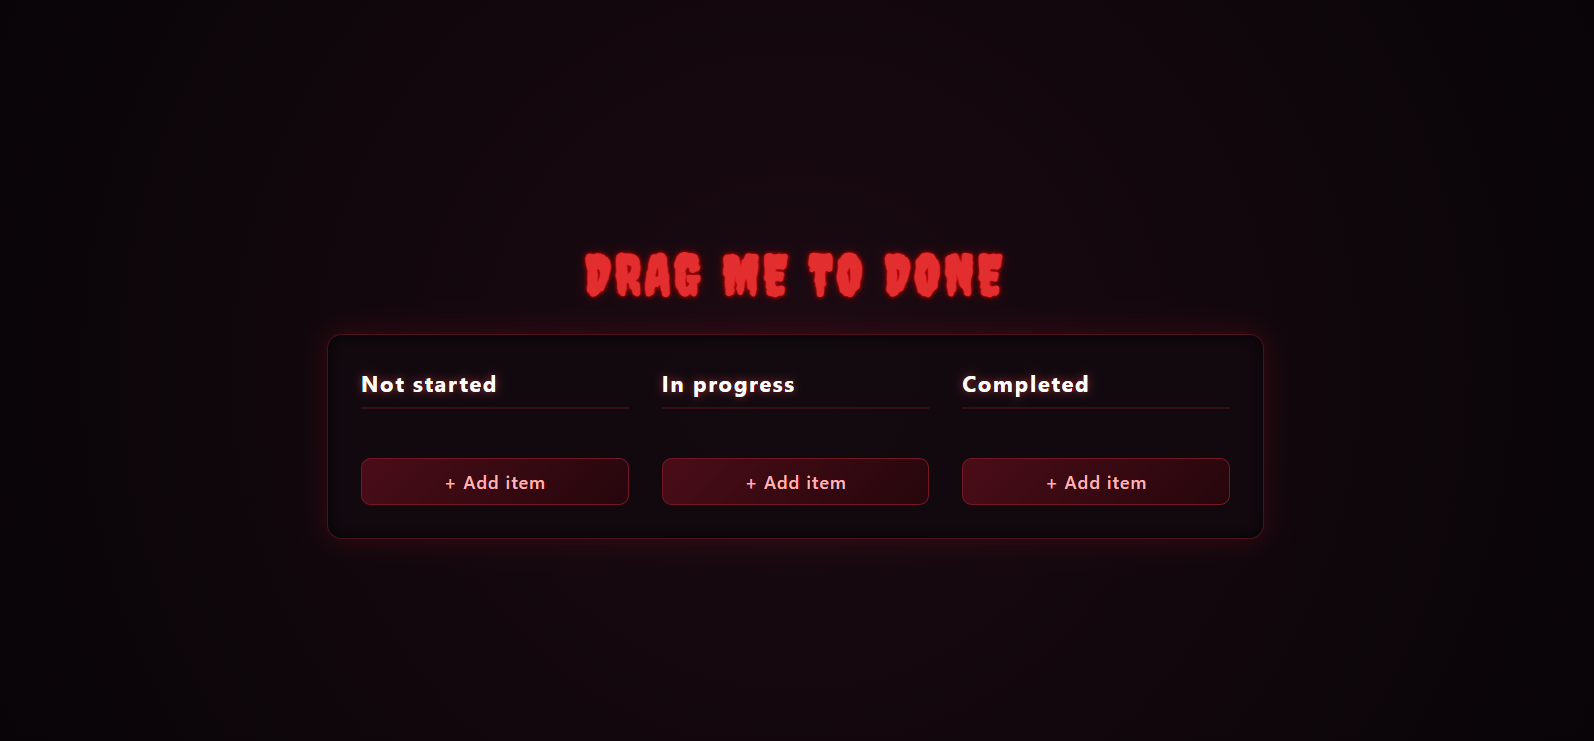
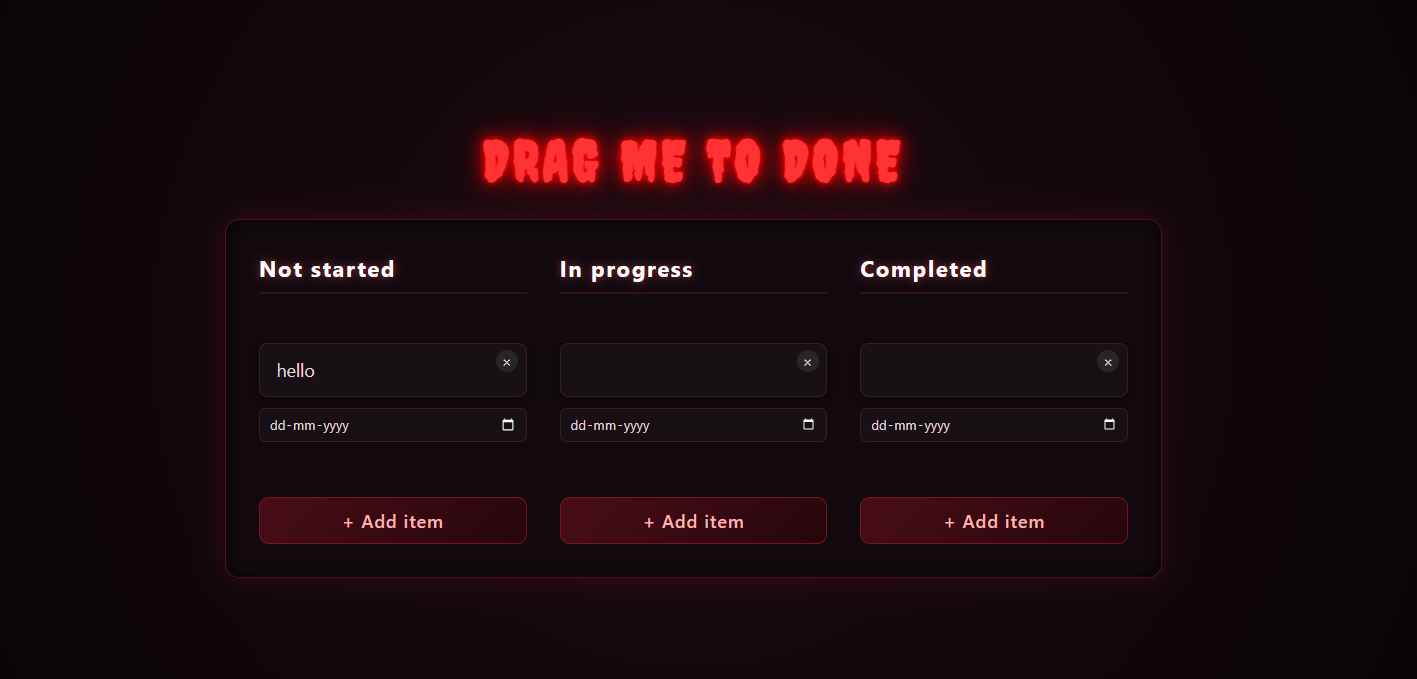
the version 1 of kanboard is live

diff --git a/items/item.js b/items/item.js
@@ -2,15 +2,18 @@ import Dropzone from '../items/dropzone.js';
 import KanbanStoreApi from '../kanbanapis/kanbanstoreapi.js';
 
 export default class Item {
-    constructor(id, content) {
+    constructor(id, content, dueDate) {
         const bottomDropzone = Dropzone.createDropzone();
         this.element = {};
         this.element.root = Item.createRoot();
         this.element.input = this.element.root.querySelector('.kanban__item-input');
-    
+        this.element.deleteBtn = this.element.root.querySelector('.kanban__item-delete');
+        this.element.dueDate = this.element.root.querySelector('.kanban__item-due');
         this.element.root.dataset.id = id;
         this.element.input.textContent = content;
-
+        if(dueDate) {
+            this.element.dueDate.value = dueDate;
+        }
         this.content = content;
         this.element.root.appendChild(bottomDropzone);
         const onBlur = () => {
@@ -25,17 +28,34 @@ export default class Item {
             console.log(this.content);
         };
         this.element.input.addEventListener('blur', onBlur);
-        this.element.root.addEventListener('contextmenu', e => {
-            e.preventDefault();
-            const check = confirm('Are you sure you want to delete this item?');
-            if (check) {
-                KanbanStoreApi.deleteItem(id);
-                this.element.input.removeEventListener('blur', onBlur);
-                this.element.root.parentElement.removeChild(this.element.root);
-                
-                location.reload();
-            }
-        });
+        this.element.dueDate.addEventListener('change', () => {
+    KanbanStoreApi.updateItem(id, { dueDate: this.element.dueDate.value });
+});
+        let confirmTimeout = null;
+        this.element.deleteBtn.addEventListener('click', e => {
+        e.stopPropagation();
+
+    if (!this.element.deleteBtn.classList.contains('kanban__item-delete--confirming')) {
+        this.element.deleteBtn.classList.add('kanban__item-delete--confirming');
+        this.element.deleteBtn.textContent = '✓';
+        this.element.deleteBtn.setAttribute('title', 'Click again to confirm delete');
+
+        confirmTimeout = setTimeout(() => {
+            this.element.deleteBtn.classList.remove('kanban__item-delete--confirming');
+            this.element.deleteBtn.textContent = '×';
+            this.element.deleteBtn.setAttribute('title', 'Delete item');
+        }, 3000);
+        
+        return;
+    }
+    
+    clearTimeout(confirmTimeout);
+    KanbanStoreApi.deleteItem(id);
+    this.element.input.removeEventListener('blur', onBlur);
+    this.element.root.parentElement.removeChild(this.element.root);
+
+    location.reload();
+});
 
         this.element.root.addEventListener('dragstart', e => {
             e.dataTransfer.setData('text/plain', id);
@@ -49,7 +69,9 @@ export default class Item {
         range.selectNode(document.body);
         return range.createContextualFragment(`
             <div class="kanban__item" draggable="true">
-                <div class="kanban__item-input" contenteditable></div>
+            <button class="kanban__item-delete" type="button" title="Delete item">×</button>
+            <div class="kanban__item-input" contenteditable></div>
+            <input class="kanban__item-due" type="date" title="Due date">
             </div>
         `).children[0];
     }

diff --git a/style.css b/style.css
@@ -72,8 +72,56 @@ h1 {
     color: #ffffff;
     padding-bottom: 8px;
 }
+.kanban__item {
+    position: relative;
+}
+.kanban__item-delete{
+    position: absolute;
+    top: 6px;
+    right: 8px;
+    width: 20px;
+    height: 20px;
+    line-height: 18px;
+    padding: 0;
+    border: none;
+    border-radius: 50%;
+    background: rgba(255, 255, 255, 0.08);
+    color: #e6d9df;
+    font-size: 14px;
+    cursor: pointer;
+    z-index: 2;
+    transition: all 0.15s ease-in-out;
+}
+.kanban__item-delete:hover{
+    background: rgba(255, 51, 68, 0.25);
+    color: #ffffff;
+}
+.kanban__item-delete--confirming {
+    background: #ff3344;
+    color: #ffffff;
+    font-weight: bold;
+    box-shadow: 0 0 8px rgba(255, 51, 68, 0.6);
+}
+.kanban__item-due {
+    display: block;
+    width: 100%;
+    margin-top: 6px;
+    padding: 6px 8px;
+    border-radius: 6px;
+    background-color: #171115;
+    border: 1px solid #3d1c24;
+    color: #e6d9df;
+    font-size: 12px;
+    box-sizing: border-box;
+    color-scheme: dark;
+}
+.kanban__item-due:focus {
+    outline: none;
+    border-color: #ff3344;
+    box-shadow: 0 0 8px rgba(254, 51, 68, 0.4);
+}
 .kanban__item-input {
-    padding: 13px 15px;
+    padding: 13px 28px 13px 15px;
     border-radius: 8px;
     background-color: #171115;
     color: #e6d9df;
@@ -119,4 +167,90 @@ h1 {
     background: linear-gradient(135deg, #6e1324 0%, #3b0913 100%);
     color: #ffffff;
     box-shadow: 0 0 12px rgba(255, 51, 68, 0.4);
+}
+@media (max-width: 1024px) {
+   .kanban {
+    width: 90%;
+    max-width: 788px;
+    padding: 24px;
+   }    
+}
+@media (max-width: 768px) {
+    body {
+        padding: 16px;
+        box-sizing: border-box;
+    }
+    h1{
+        font-size: 2.2rem;
+        margin-top: 1rem;
+        margin-bottom: 1rem;
+    }
+    .kanban{
+        width: 100%;
+        padding: 20px;
+    }
+    .kanban__column:not(:last-child){
+        margin-right: 16px;
+    }
+}
+@media (max-width: 600px) {
+    .kanban {
+        flex-direction: column;
+        gap: 20px;
+        padding: 16px;
+    }
+    .kanban__column{
+        width: 100%;
+    }
+    .kanban__column:not(:last-child){
+        margin-right: 0;
+        margin-bottom: 4px;
+    }
+}
+@media (max-width: 480px) {
+    h1 {
+        font-size: 1.8rem;
+        letter-spacing: 2px;
+        margin-top: 0.75rem;
+    }
+    .kanban {
+        padding: 14px;
+        border-radius: 10px;
+        gap: 16px;
+    }
+    .kanban__column-title{
+        font-size: 1.5rem;
+        text-align: center;
+    }
+    .kanban__item-input{
+        padding: 10px 12px;
+        font-size: 14px;
+    }
+    .kanban__add-item{
+        font-size: 14px;
+        padding: 8px 0;
+    }
+}
+@media (max-width:390px) {
+    h1 {
+        font-size: 1.5rem;
+        letter-spacing: 1.5px;
+        margin-top: 0.5rem;
+    }
+    .kanban {
+        padding: 10px;
+        border-radius: 9px;
+        gap: 12px;
+    }
+    .kanban__column-title{
+        font-size: 1rem;
+    }
+    .kanban__item-input{
+        padding: 8px 10px;
+        font-size: 13px;
+    }
+    .kanban__add-item{
+        font-size: 13px;
+        padding: 7px 0;
+    }
 }

diff --git a/kanbanapis/kanbanstoreapi.js b/kanbanapis/kanbanstoreapi.js
@@ -37,7 +37,7 @@ static insertItem(columnId, content){
             throw new Error('Item not found');
         }
         item.content = newProps.content === undefined ? item.content : newProps.content;
-        
+        item.dueDate = newProps.dueDate == undefined ? item.dueDate : newProps.dueDate;
         if(
             newProps.columnId !== undefined 
             && newProps.position !== undefined

diff --git a/items/column.js b/items/column.js
@@ -35,7 +35,8 @@ export default class Column {
     }
 
     renderItem(data) {
-        const item = new Item(data.id, data.content);        this.element.items.appendChild(item.element.root);
+        const item = new Item(data.id, data.content, data.dueDate)
+        this.element.items.appendChild(item.element.root);
         this.element.items.appendChild(Dropzone.createDropzone());
     }
 }

diff --git a/README.md b/README.md
@@ -1,18 +1,56 @@
-Welcome to my **Dangerous Kanban Board**
+# Drag Me to Done - Dangerous Kanban Board
 
 ![alt text](./assets/nmm.png)
 
-IN this Kanban Board i filled with **horror themes and colors** to make it more attractful
+**A Horror Themed and Adwanced Kanban Board Built Using JS,HTML and CSS without using any Framework that will work on your browser**
 
 ![alt text](./assets/fll.png)
 
-IN this website if you click on on Add item button It will  create a new area and you can type there
+# Features:
+ 1. **Drag and Drop baased UI interface**
 
-![alt text](./assets/lic.png)
+  ![alt text](./assets/like.png)
 
-And also you can move this into any three boxes while dragging it 
+ 2. **Inline editable interface so you can edit while clicking it**
 
-![alt text](./assets/like.png)
+ ![alt text](./assets/editable.png)
 
-If you right Click it and enter ok you can also delete that
+ 3. **Delete confirmation also is in it if you press delete icon it ask again for confirmation**
 
+ ![alt text](./assets/confirm.png)
+
+ 4. **Due date also in it because to find when it wrote**
+
+ ![alt text](./assets/duedate.png)
+
+ 5. **Local storage also available so when you close browser or refreshes the browser it wil not gone**
+
+ 6. **Fully Respnsive Design so it works on laptops,desktops,tablets and phones etc**
+
+ 7. **Fully Themed UI - In this website this is horror based UI with dark and flickering Horrors**
+
+
+# Project Structure
+
+├── index.html
+├── style.css
+├── script.js
+├── kanbanapis/
+│ ├── kanban.js
+│ └── kanbanstoreapi.js
+└── items/
+├── column.js
+├── item.js
+└── dropzone.js
+
+# Using 
+
+1. **Clone the repo using "git clone https://github.com/JazilJafar/Dangerous-kanban-board.git**"
+
+2. This is module so index.html not fully works on browser so you do that 
+    go to terminal and say "npm serve ." or using python say "python3 -m http.server 8000" then open http://localhost:8000 in the browser 
+    also you can use live server in the VS Code
+
+# license
+
+MIT - free to use and modify
